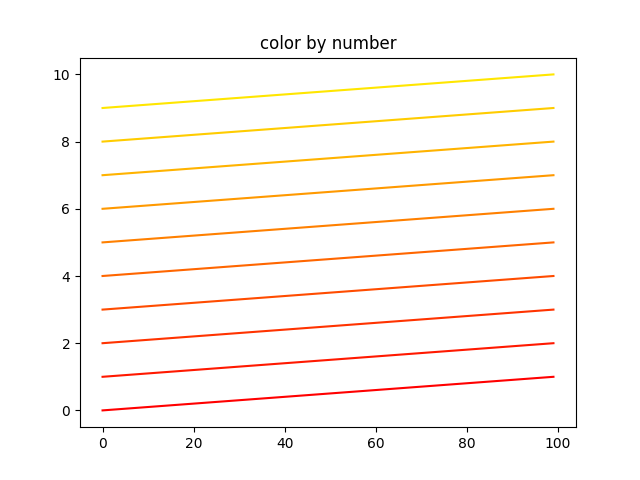
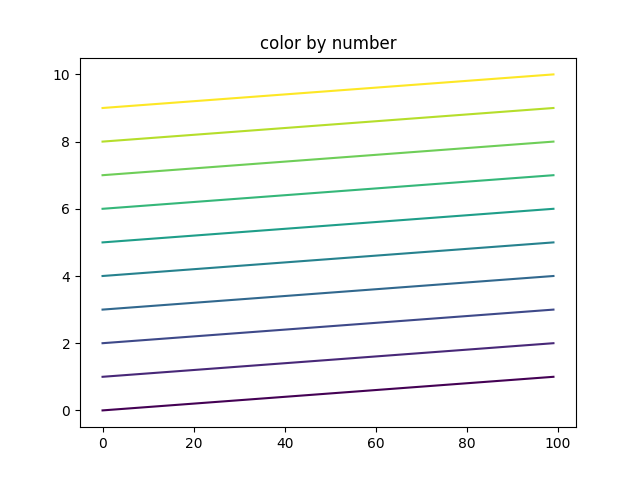
plt colorbar

diff --git a/Plotting/mpl_color_by_number.py b/Plotting/mpl_color_by_number.py
@@ -10,11 +10,10 @@ lines = np.array(
          for b in range(10)]
         )
 
-cmap = cm.autumn
-norm = mplc.Normalize(vmin=0, vmax=1)
-
+cmap = plt.get_cmap('viridis', lines.shape[0])
+norm = mplc.Normalize(vmin=0, vmax=lines.shape[0] - 1)
 for i, l in enumerate(lines):
-    i = i / lines.shape[0]
     plt.plot(l, color=cmap(norm(i)))
 plt.title('color by number')
+sm = plt.cm.ScalarMappable(cmap=cmap, norm=norm)
 plt.show()
